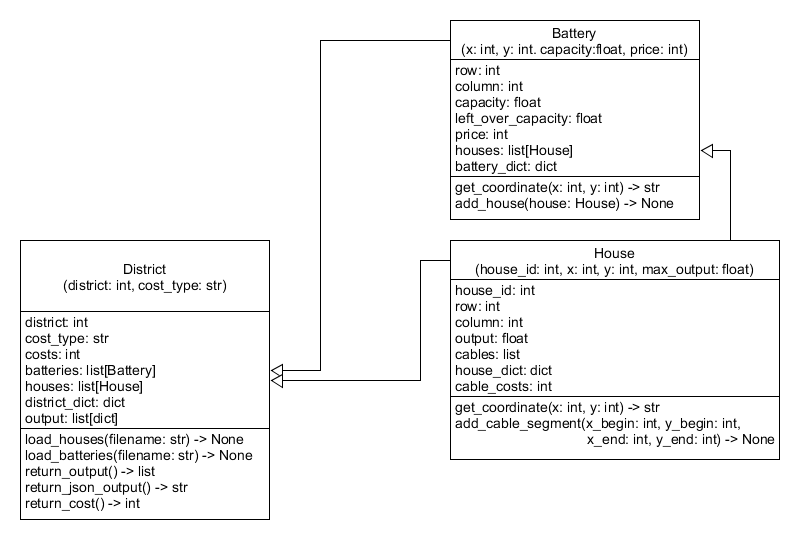
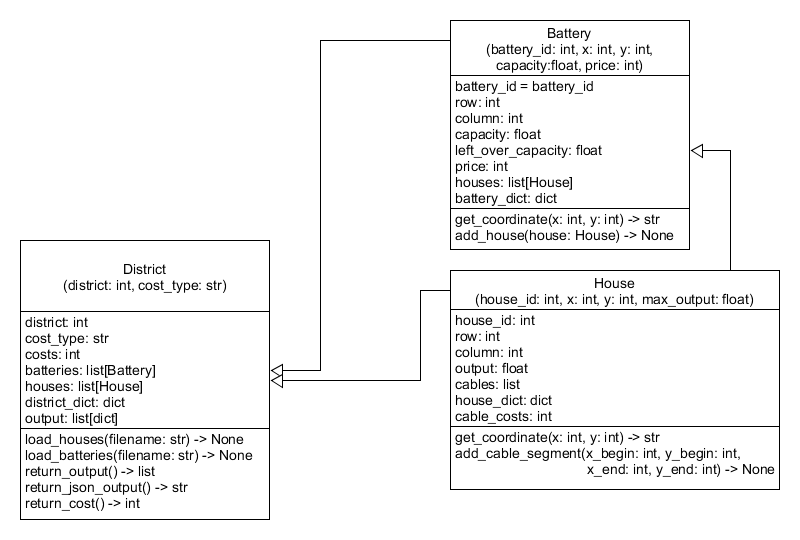
id added to Battery and greedy testing

Changed region(s): [[0.5625, 0.0296, 0.9688, 0.8889], [0.8438, 0.2667, 0.9062, 0.2963]]

diff --git a/code/algorithms/greedy.py b/code/algorithms/greedy.py
@@ -1,6 +1,37 @@
-from random import randint
+from random import randint, shuffle
 from code.visualisation.visualize import *
 
+"""
+def greedy_assignment(district, starting_house: int = 0) -> None:
+    """""" Adds each house to the battery with the most capacity left
+        pre: an instance of the District class and an optional starting
+        house position can be passed as an int""""""
+    max_capacity = 0
+    houses_amount = len(district.houses)
+    
+    
+    house_order = [*range(0, houses_amount, 1)]
+    shuffle(house_order)
+    print(house_order)
+    
+    for i in house_order:
+        # Determines battery with most capacity
+        max_battery = None
+        max_capacity = 0 
+        
+        house_num = (i + starting_house) % houses_amount
+        
+        for battery in district.batteries:
+            if battery.left_over_capacity > max_capacity and \
+               battery.left_over_capacity >= district.houses[i].output:
+                max_capacity = battery.left_over_capacity
+                max_battery = battery
+        
+        # If a compatible battery has been found, the house will be added
+        if max_battery != None:
+            max_battery.add_house(district.houses[i])
+        else:
+            print("WARNING: one or more houses have not been assigned to a battery")   """
 
 def greedy_assignment(district, starting_house: int = 0) -> None:
     """ Adds each house to the battery with the most capacity left
@@ -16,17 +47,25 @@ def greedy_assignment(district, starting_house: int = 0) -> None:
 
         house_num = (i + starting_house) % houses_amount
 
-        for battery in district.batteries:
+        bat_num = 0
+
+        for n, battery in enumerate(district.batteries):
             if battery.left_over_capacity > max_capacity and \
                battery.left_over_capacity >= district.houses[house_num].output:
                 max_capacity = battery.left_over_capacity
                 max_battery = battery
+                bat_num = n + 1
         
-        # If a compatible battery has been found, the house will be added
+        # If a compatible battery has been found,  will be added
         if max_battery != None:
             max_battery.add_house(district.houses[house_num])
+            print(f"House {i} -> Battery {bat_num}")
         else:
-            print("WARNING: one or more houses have not been assigned to a battery")          
+            print("WARNING: one or more houses have not been assigned to a battery")
+            print(f"House {i}: {district.houses[house_num].output}")       
+
+    for n, battery in enumerate(district.batteries):
+        print(f"Battery {n + 1}: {battery.left_over_capacity}")    
         
             
 def run_greedy_assignment_shortest_walk(district) -> list:

diff --git a/code/modules/district.py b/code/modules/district.py
@@ -81,12 +81,12 @@ class District:
 
         with open(filename) as f:
             next(f)
-            for line in f:
+            for i, line in enumerate(f):
                 battery_data = line.strip().split(",")
                 # Remove " character that comes with csv
                 battery_data[0] = battery_data[0].translate({ord('"'): None})
                 battery_data[1] = battery_data[1].translate({ord('"'): None})
-                battery = Battery(int(battery_data[0]), int(battery_data[1]), float(battery_data[2]), 5000)
+                battery = Battery(i, int(battery_data[0]), int(battery_data[1]), float(battery_data[2]), 5000)
                 self.batteries.append(battery)
                 # Add costs of battery to total costs
                 self.district_dict[f"{self.costs_type}"] += battery.price

diff --git a/code/modules/battery.py b/code/modules/battery.py
@@ -17,7 +17,8 @@ from code.modules.house import House
 
 class Battery:
 
-    def __init__(self, x: int, y: int, capacity: float, price: int) -> None:
+    def __init__(self, batery_id: int, x: int, y: int, capacity: float, price: int) -> None:
+        self.battery_id = battery_id
         self.row = x
         self.column = y
         self.capacity = capacity
